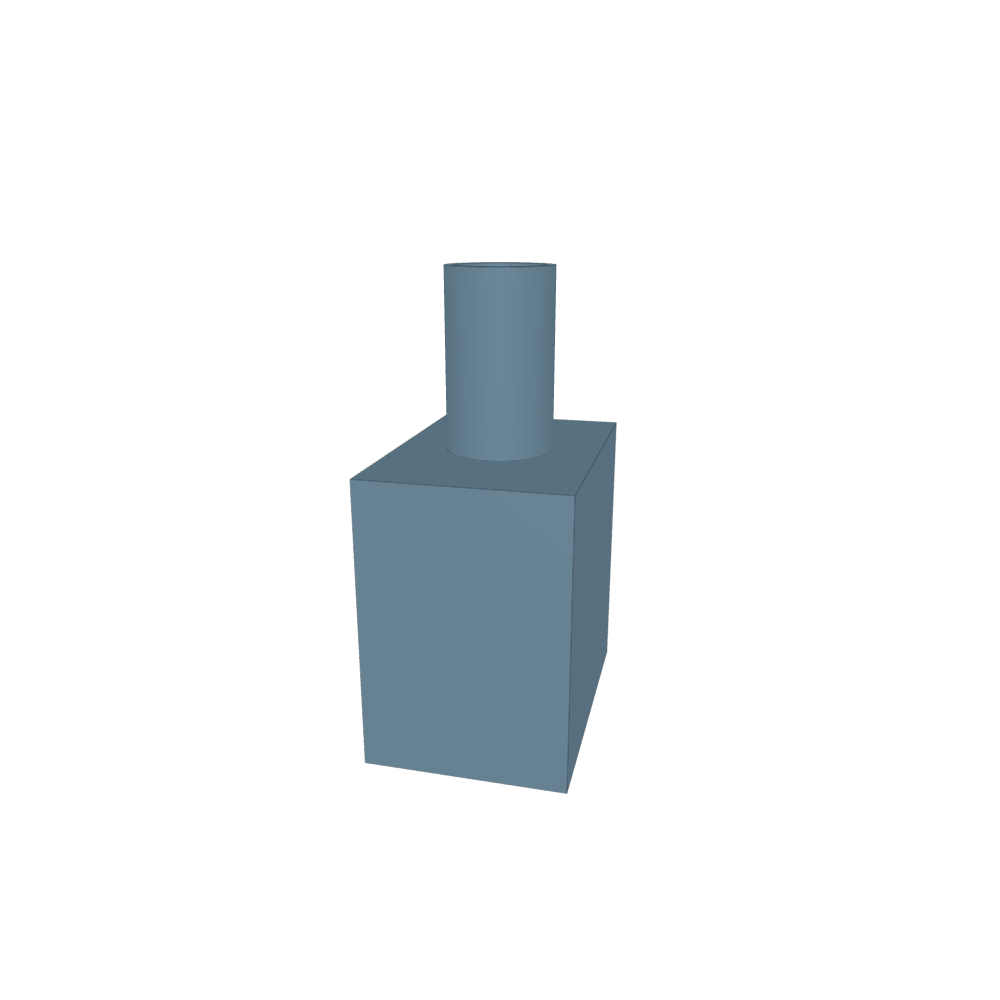
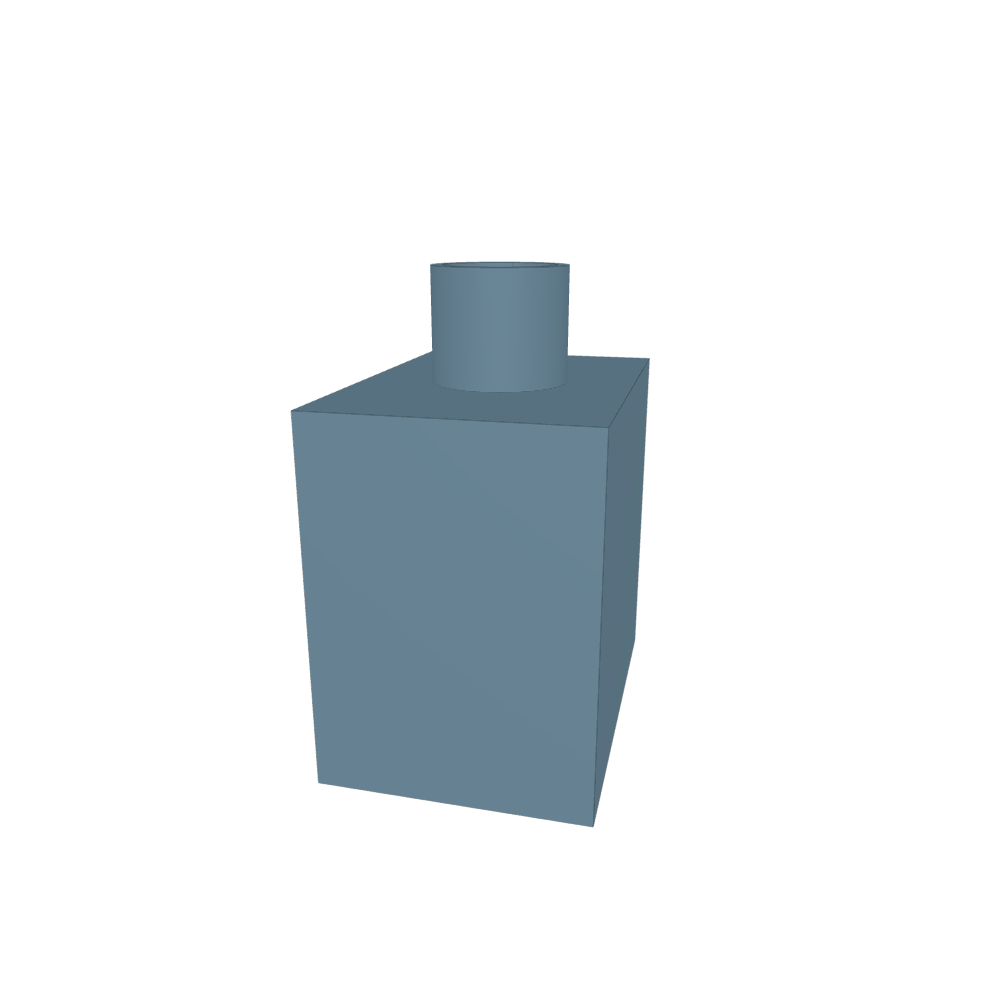
User Save

Changed region(s): [[0.279, 0.248, 0.651, 0.837]]

diff --git a/README.md b/README.md
@@ -7,7 +7,8 @@
 ## Inputs
 
 - **width** (number)
-- **height** (undefined)
+- **height** (number)
+- **depth** (number)
 
 
 
